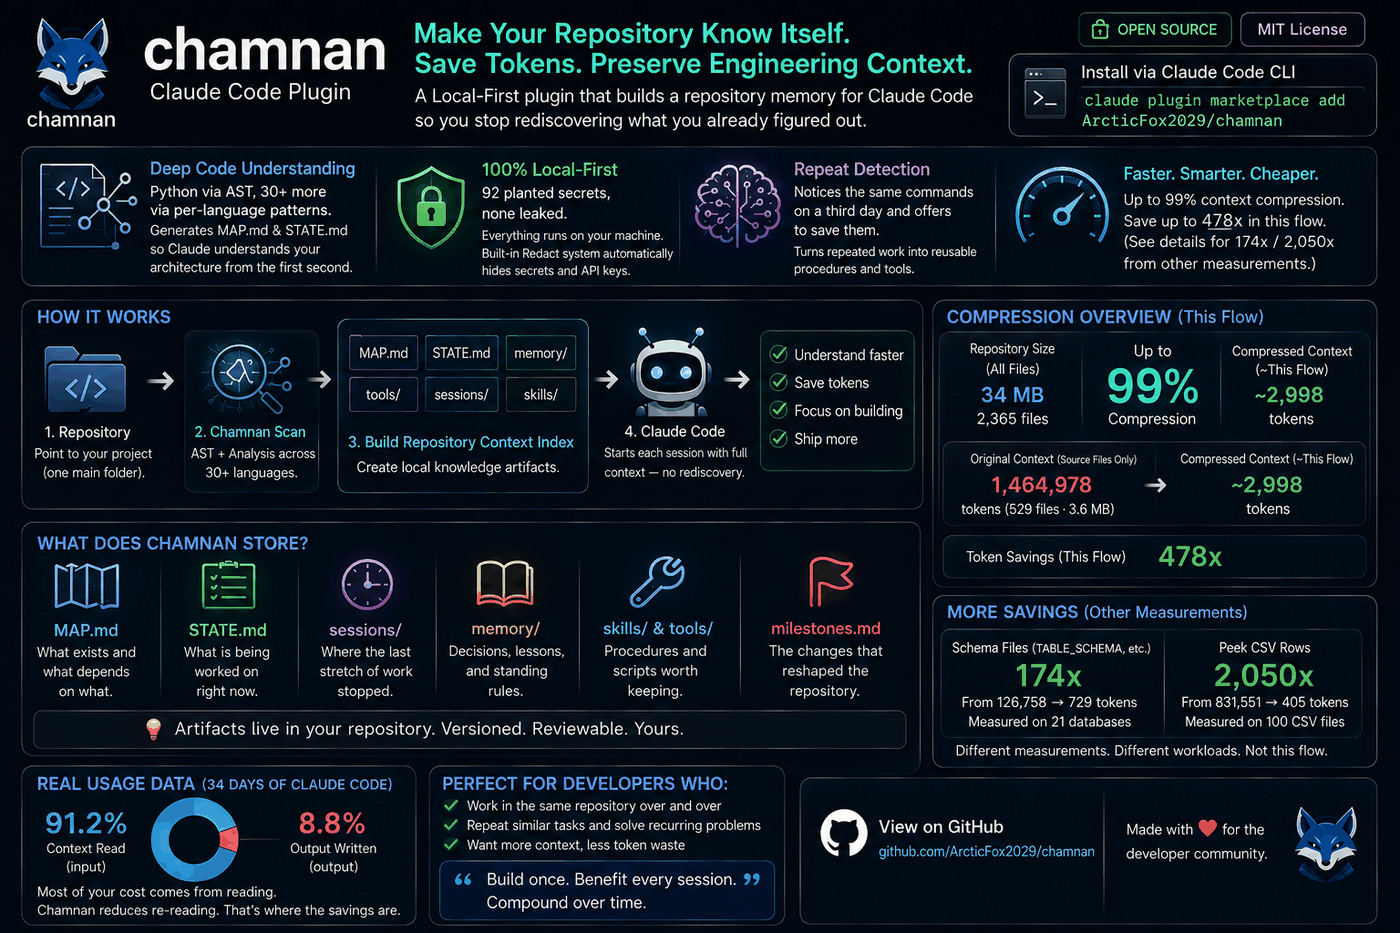
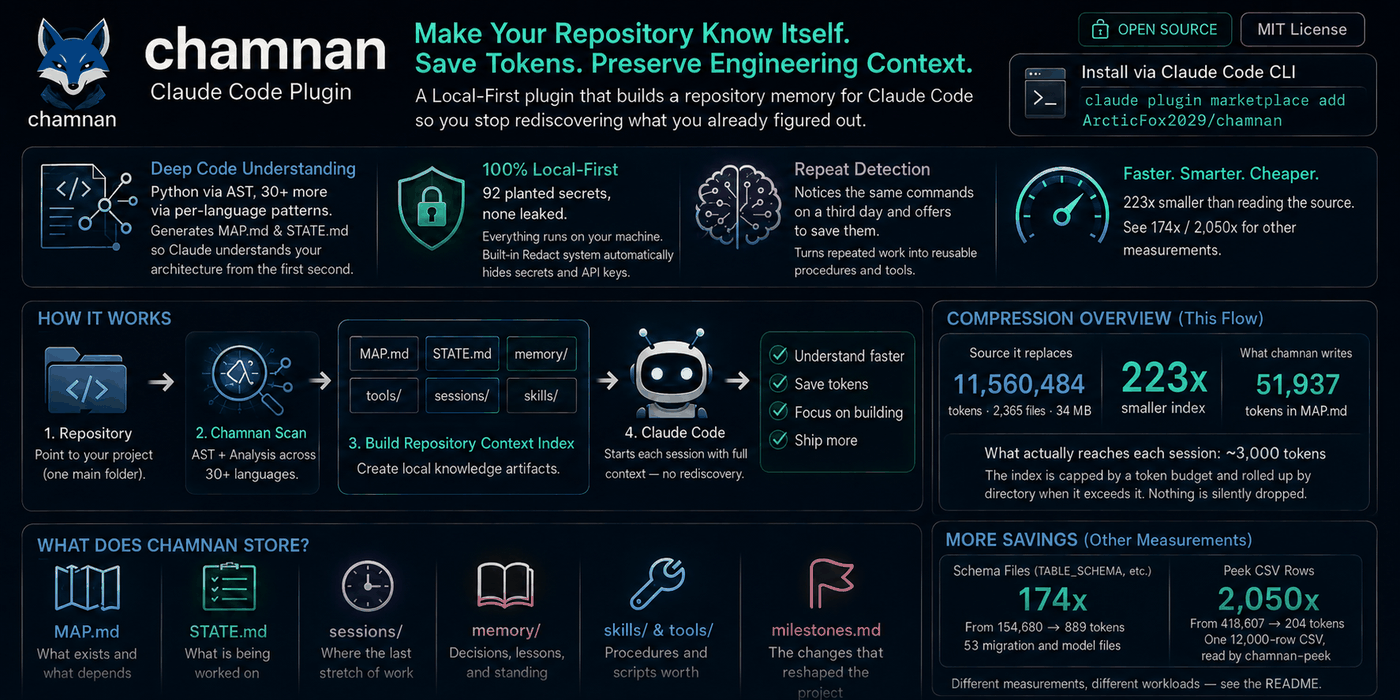
the infographic now says what the README says
Two figures in its lower panel had no counterpart in the tables they summarised.
The ratios were right -- 174x and 2,050x -- but the numbers underneath them had
been produced to divide into those ratios, and the provenance beside them named
workloads that were never measured: 21 databases and 100 CSV files, where the
tables say 53 migration and model files and one 12,000-row CSV.

The compression panel also carried two different measurements as if they were
one, which made 34 MB look like it produced 1,464,978 tokens. It is now a single
flow, the one the README's own table states: 11,560,484 tokens of source across
2,365 files, an index of 51,937, and roughly 3,000 of that reaching a session.

A picture cannot be corrected once it has been shared, which is the whole reason
the caption under it points at Evidence and The chaos test and says to read those
instead if a number matters.

Changed region(s): [[0.0, 0.0, 0.9829, 1.0]]

diff --git a/README.md b/README.md
@@ -1,6 +1,6 @@
 # chamnan
 
-<img src="docs/assets/chamnan.png" alt="chamnan — an index the agent reads instead of scanning files. On a 529-file test corpus, 1,464,978 tokens of source against roughly 3,000 injected per session." width="100%">
+<img src="docs/assets/chamnan.png" alt="chamnan — an index the agent reads instead of scanning files. On the polyglot test corpus, 11,560,484 tokens of source become a 51,937-token index, of which roughly 3,000 reach each session." width="100%">
 
 <sub>The figures above are a summary. Every one of them, and how it was measured, is in
 [Evidence](#evidence) and [The chaos test](#the-chaos-test) below — read those rather than the
